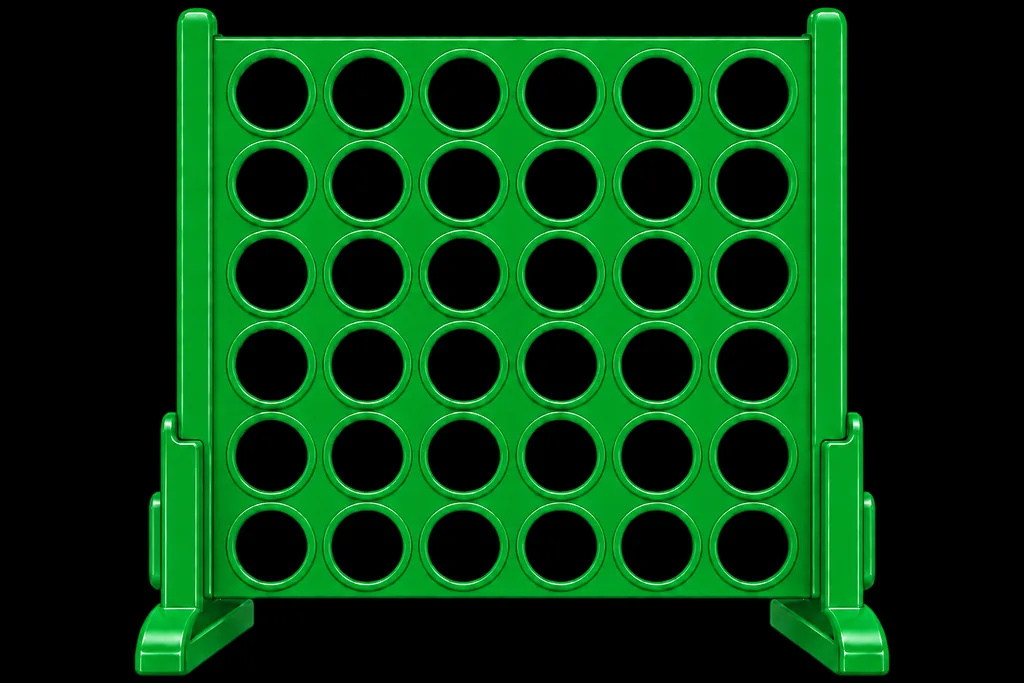
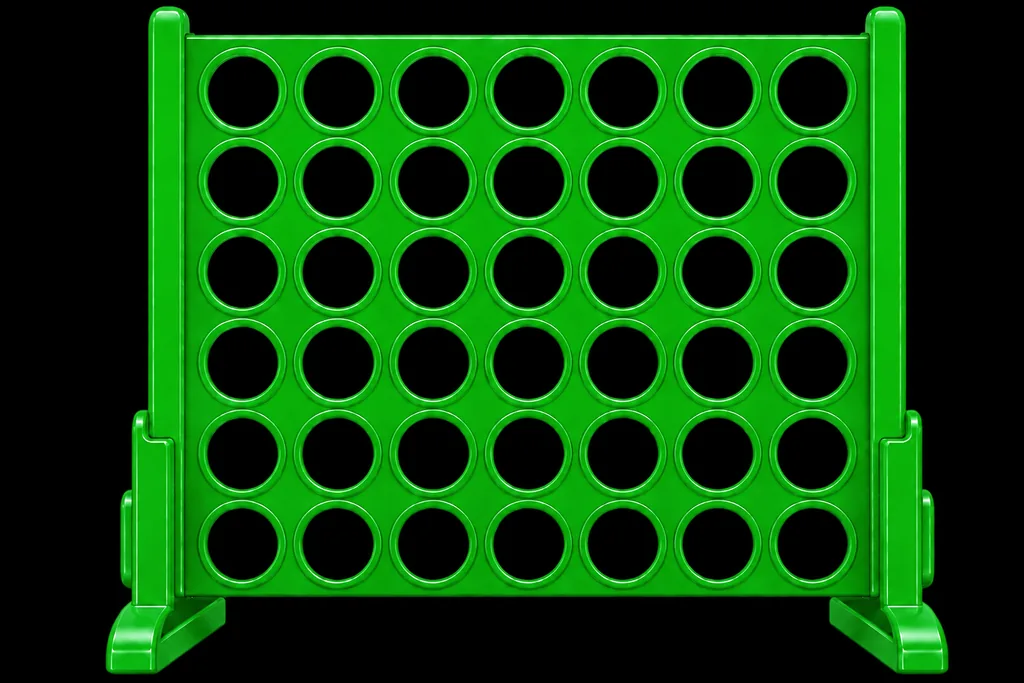
Use corrected seven-column Connect Four boards

diff --git a/app/src/main/kotlin/com/mkdev/mkboardgames/ConnectFourActivity.kt b/app/src/main/kotlin/com/mkdev/mkboardgames/ConnectFourActivity.kt
@@ -615,18 +615,17 @@ Control the centre columns, build threats in more than one direction, and block 
         } catch (_: Throwable) {
             null
         }
-        // The uploaded boards share the same 1024×683 composition. The
-        // supplied artwork has six visible openings, while the game engine
-        // has seven playable columns, so the seven game columns are fitted
-        // evenly across the board's measured inner span.
+        // The uploaded boards share the same 1024×683 composition. These
+        // measured hole centres keep pieces, highlights, animations, and
+        // touch columns aligned with the corrected seven-column artwork.
         private val imageGridX = floatArrayOf(
-            271.5f / 1024f, 351.7f / 1024f, 431.8f / 1024f,
-            512f / 1024f, 592.2f / 1024f, 672.3f / 1024f,
-            752.5f / 1024f,
+            244.5f / 1024f, 339f / 1024f, 433.5f / 1024f,
+            528.5f / 1024f, 622.5f / 1024f, 717f / 1024f,
+            811f / 1024f,
         )
         private val imageGridY = floatArrayOf(
-            92.5f / 683f, 183.5f / 683f, 273.5f / 683f,
-            364f / 683f, 455.5f / 683f, 546f / 683f,
+            92f / 683f, 182f / 683f, 272.5f / 683f,
+            362.5f / 683f, 453.5f / 683f, 544f / 683f,
         )
         private var boardColor = Color.parseColor("#24527A")
         private var accent = Color.parseColor("#7FC8F8")
